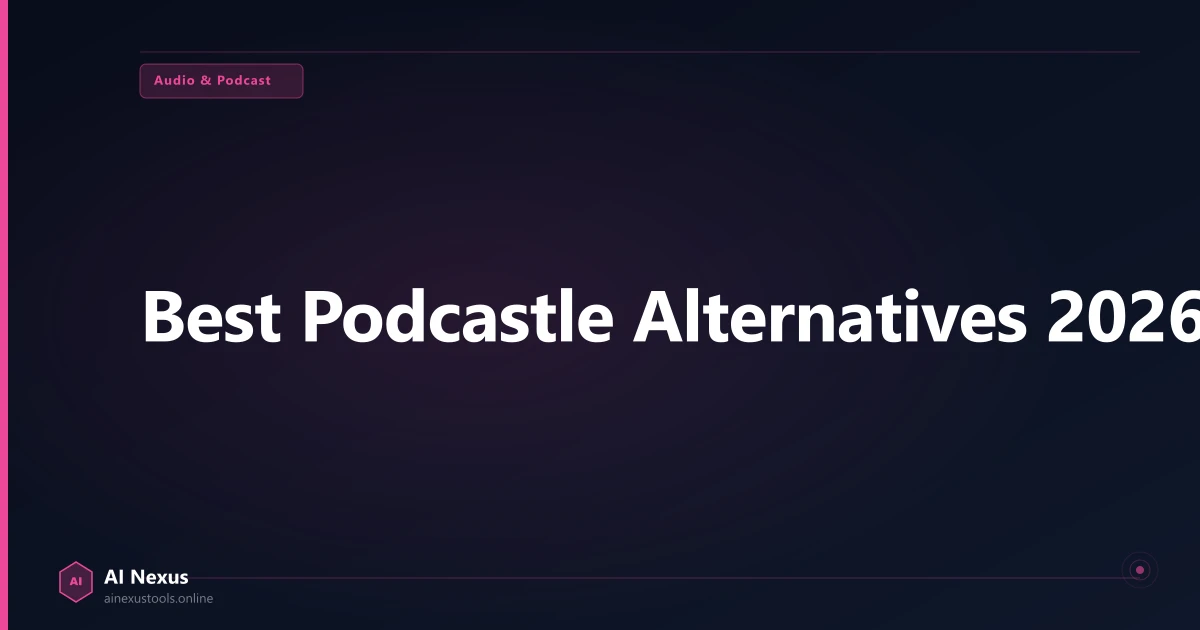
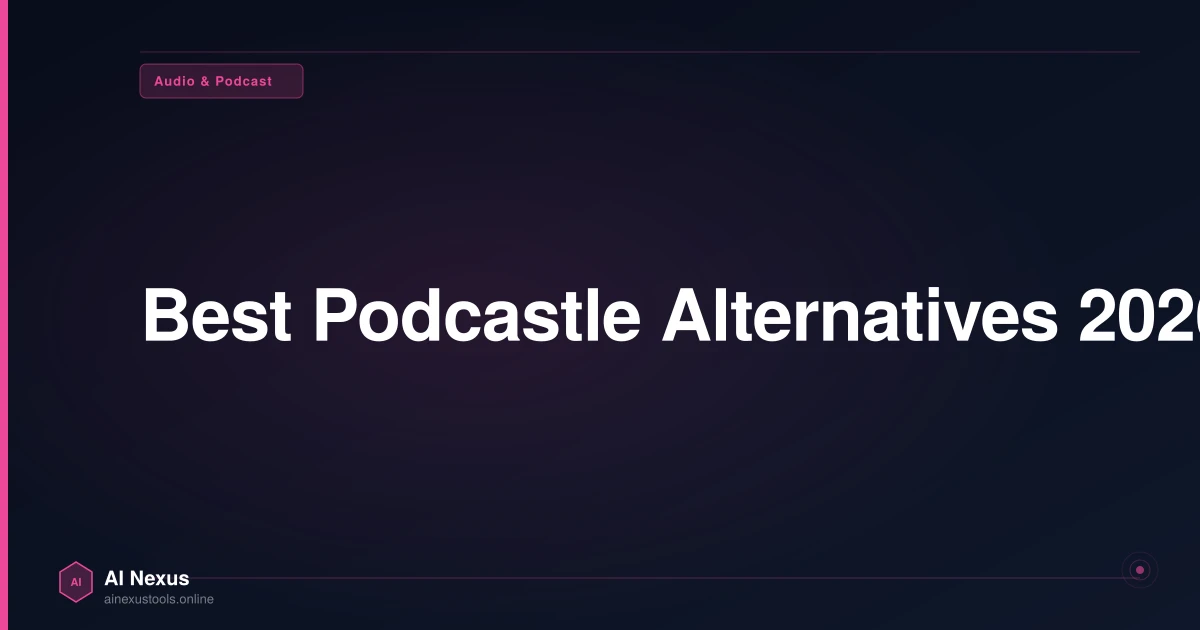
update

Changed region(s): [[0.1233, 0.4524, 1.0, 0.5429], [0.0617, 0.9048, 0.185, 0.9651], [0.1233, 0.1206, 0.2467, 0.1508]]

diff --git a/blog/elevenlabs-alternatives-2026.ts b/blog/elevenlabs-alternatives-2026.ts
@@ -1,0 +1,285 @@
+// blog/elevenlabs-alternatives-2026.ts
+// Target keyword: "elevenlabs alternatives" — high-intent post 3 of 9 in the AI Voice/TTS cluster
+// Secondary keywords: "elevenlabs alternative", "best elevenlabs alternatives 2026", "elevenlabs competitors"
+// Internal links: /blog/best-ai-voice-generators-2026/, /blog/best-text-to-speech-software-2026/,
+//   /tools/elevenlabs/, /tools/murf-ai/, /best-ai-audio-tools/
+// Affiliate: Murf AI (get.murf.ai/ilypoqhxvxsj) is the only affiliate tool in this post — Cartesia,
+//   Resemble AI, Play.ht, WellSaid Labs, and OpenAI TTS have no affiliate program on this site.
+// Research note: Cartesia, Resemble AI, Play.ht, WellSaid Labs, and OpenAI TTS pricing verified via
+// live web search (Aug 2026) since none of these have existing verified data in constants.ts.
+import { BlogPost } from './types';
+import { Category } from './types';
+
+const post: BlogPost = {
+  slug: 'elevenlabs-alternatives-2026',
+  title: 'ElevenLabs Alternatives 2026: 5 Tools Worth Switching To (and 2 Not To)',
+  seoTitle: 'ElevenLabs Alternatives 2026: 5 Tools Worth It',
+  metaDescription: 'The best ElevenLabs alternatives in 2026, compared by actual use case. Murf AI, Cartesia, Resemble AI, Play.ht & WellSaid Labs — real pricing, no fluff.',
+  datePublished: '2026-08-14',
+  dateModified: '2026-08-14',
+  author: 'Navneet Arya',
+  category: Category.AUDIO,
+  readTime: '12 min read',
+  ogImage: 'https://ainexustools.online/og/blog/elevenlabs-alternatives-2026.webp',
+  excerpt: 'ElevenLabs is the best all-round AI voice tool, but it is not the right fit for every job. Murf AI wins for video, Cartesia for voice agents, and Resemble AI for deepfake protection.',
+  quickAnswer: 'The best ElevenLabs alternative depends on the job. Murf AI is the strongest pick for finished video and e-learning voiceovers. Cartesia beats ElevenLabs on raw latency for real-time voice agents. Resemble AI adds deepfake detection ElevenLabs does not offer. Play.ht wins on library size and budget. WellSaid Labs suits enterprise teams that need consistent English narration above all else.',
+  myTake: "I'm Navneet Arya, and I checked live pricing pages and third-party benchmarks for every tool here as of August 2026, since two of these companies changed their pricing models entirely this year. If your job is a real-time voice agent, Cartesia genuinely beats ElevenLabs on speed, and that is worth knowing before you commit to one platform.",
+
+  content: `
+<img src="https://images.unsplash.com/photo-1478737270239-2f02b77fc618?auto=format&fit=crop&w=1200&q=80" alt="Sound waveform visualization representing AI voice technology" style="width:100%;border-radius:12px;margin:0 0 24px;" loading="lazy" />
+
+<p>ElevenLabs earns its name. It's the most realistic AI voice tool out there, and for most people asking about alternatives, the honest answer is that ElevenLabs is still the right pick. But "most people" isn't everyone.</p>
+
+<p>I'm Navneet Arya, and I checked live pricing and current benchmarks for this guide, current as of August 2026. If you have not checked ElevenLabs against every option yet, our <a href="/blog/best-ai-voice-generators-2026/">best AI voice generators guide</a> is the right starting point. This guide assumes you already know ElevenLabs and want to know what actually beats it, and where.</p>
+
+<h2>TL;DR: when to actually switch from ElevenLabs</h2>
+
+<p>Switch to Murf AI if your output is video or e-learning, not raw audio. Switch to Cartesia if you're building a real-time voice agent and latency matters more than voice realism.</p>
+
+<p>Switch to Resemble AI if deepfake detection and watermarking matter for your use case. Switch to Play.ht if budget and voice-library size matter more than top-end realism. Switch to WellSaid Labs only if you're an enterprise team that needs contract-based pricing and English-only consistency.</p>
+
+<div style="overflow-x:auto;margin:28px 0">
+  <table style="width:100%;border-collapse:collapse;font-size:14px">
+    <thead>
+      <tr style="background:rgba(13,148,136,.08)">
+        <th style="padding:10px 14px;text-align:left;border-bottom:2px solid rgba(13,148,136,.2);font-weight:600">Tool</th>
+        <th style="padding:10px 14px;text-align:left;border-bottom:2px solid rgba(13,148,136,.2);font-weight:600">Best for</th>
+        <th style="padding:10px 14px;text-align:left;border-bottom:2px solid rgba(13,148,136,.2);font-weight:600">Starting price</th>
+        <th style="padding:10px 14px;text-align:left;border-bottom:2px solid rgba(13,148,136,.2);font-weight:600">Free plan</th>
+      </tr>
+    </thead>
+    <tbody>
+      <tr style="border-bottom:1px solid rgba(0,0,0,.06)">
+        <td style="padding:10px 14px;font-weight:500">Murf AI</td>
+        <td style="padding:10px 14px">Video & e-learning voiceovers</td>
+        <td style="padding:10px 14px">$19/month</td>
+        <td style="padding:10px 14px">Yes, 10 min/month</td>
+      </tr>
+      <tr style="border-bottom:1px solid rgba(0,0,0,.06)">
+        <td style="padding:10px 14px;font-weight:500">Cartesia</td>
+        <td style="padding:10px 14px">Real-time voice agents</td>
+        <td style="padding:10px 14px">~$5/month</td>
+        <td style="padding:10px 14px">Yes, limited credits</td>
+      </tr>
+      <tr style="border-bottom:1px solid rgba(0,0,0,.06)">
+        <td style="padding:10px 14px;font-weight:500">Resemble AI</td>
+        <td style="padding:10px 14px">Deepfake detection & security</td>
+        <td style="padding:10px 14px">Pay-per-use, no plan</td>
+        <td style="padding:10px 14px">No</td>
+      </tr>
+      <tr style="border-bottom:1px solid rgba(0,0,0,.06)">
+        <td style="padding:10px 14px;font-weight:500">Play.ht</td>
+        <td style="padding:10px 14px">Voice library size & budget</td>
+        <td style="padding:10px 14px">~$31/month</td>
+        <td style="padding:10px 14px">Yes</td>
+      </tr>
+      <tr style="border-bottom:1px solid rgba(0,0,0,.06)">
+        <td style="padding:10px 14px;font-weight:500">WellSaid Labs</td>
+        <td style="padding:10px 14px">Enterprise, English-only</td>
+        <td style="padding:10px 14px">~$55/month</td>
+        <td style="padding:10px 14px">Trial only</td>
+      </tr>
+    </tbody>
+  </table>
+</div>
+
+<h2>Why people look for an ElevenLabs alternative</h2>
+
+<p>Three reasons come up again and again. Cost, since ElevenLabs' per-character pricing scales fast at high volume. Latency, since ElevenLabs was built for content, not real-time conversation. And specific features ElevenLabs simply doesn't offer, like deepfake watermarking or a finished video-sync workflow.</p>
+
+<img src="https://images.unsplash.com/photo-1590602847861-f357a9332bbc?auto=format&fit=crop&w=1200&q=80" alt="A developer comparing API options on a laptop screen" style="width:100%;border-radius:12px;margin:8px 0 24px;" loading="lazy" />
+
+<h2>Murf AI: best for finished video and e-learning output</h2>
+
+<p>Murf AI isn't trying to out-realism ElevenLabs. It's solving a different job: getting a voiceover synced to a video timeline without hours of manual editing.</p>
+
+<p>Its script-to-video sync feature times a voiceover to your existing footage on its own. The voice library covers 120+ voices across 20 languages, with strong Indian, British, and Australian accents. The free plan gives 10 minutes of voiceover a month, and paid plans start at $19/month. Trustpilot rates it 4.4 stars from 428 reviews.</p>
+
+<p><strong>Switch to Murf if:</strong> you're producing YouTube videos, corporate training, or e-learning content, and the finished sync matters more than raw voice realism. See our full <a href="/tools/murf-ai/">Murf AI review</a> for pricing tiers.</p>
+
+<div style="margin:14px 0 24px;">
+  <a href="https://get.murf.ai/ilypoqhxvxsj" target="_blank" rel="sponsored nofollow noopener noreferrer" style="display:inline-block;background:linear-gradient(135deg,#0D9488,#0f766e);color:#fff;padding:10px 14px;margin:6px 8px 0 0;border-radius:10px;font-weight:700;font-size:13px;text-decoration:none;">Try Murf AI Free →</a>
+</div>
+<p style="font-size:12px;color:var(--text-muted,#888);margin-top:-12px">
+  <a href="/disclosure/">Affiliate disclosure</a> — we may earn a commission at no extra cost to you.
+</p>
+
+<h2>Cartesia: best for real-time voice agents</h2>
+
+<p>Cartesia was built for a job ElevenLabs was never built for: live, back-and-forth conversation. Its Sonic model uses a different design than a standard model, which gets time-to-first-audio down to roughly 40 to 90 milliseconds.</p>
+
+<img src="https://images.unsplash.com/photo-1611162616305-c69b3fa7fbe0?auto=format&fit=crop&w=1200&q=80" alt="A phone call interface representing a real-time voice agent" style="width:100%;border-radius:12px;margin:8px 0 24px;" loading="lazy" />
+
+<p>That speed is why it shows up in phone agents, customer service bots, and other latency-sensitive products. It offers a free tier for testing.</p>
+
+<p>Paid access starts around $5/month for light commercial use, scaling into custom pricing for big teams for high call volume. It's built for developers, not everyday creators, so expect an API-first setup rather than a polished web app.</p>
+
+<p><strong>Switch to Cartesia if:</strong> you're building a voice agent, IVR system, or any live product where a half-second delay breaks the experience. This is the one case where ElevenLabs genuinely isn't the right tool for the job.</p>
+
+<h2>Resemble AI: best for deepfake detection and security</h2>
+
+<p>Resemble AI made a real change in 2026. It dropped its old subscription tiers entirely and moved to pure pay-per-use pricing, with no monthly plan and no free tier.</p>
+
+<p>What makes it worth knowing isn't the pricing model, though. It's the built-in Detect feature, which flags AI-manipulated audio.</p>
+
+<p>It also uses PerTh neural watermarking, which adds a hidden signature in every clip it generates. Neither ElevenLabs nor Murf offers anything comparable. Pricing runs around $0.0005 per second of generated audio, which works out cheaper than a flat subscription at low volume but can climb fast at scale.</p>
+
+<div style="background:rgba(13,148,136,.07);border-left:3px solid #0D9488;border-radius:8px;padding:16px 20px;margin:20px 0;">
+  <strong style="color:#0D9488;font-size:12px;text-transform:uppercase;letter-spacing:.08em;">⚠ Pricing Warning</strong>
+  <p style="margin:8px 0 0;font-size:14px;line-height:1.7;">Resemble AI dropped its old subscription plans in 2026, so there is no flat monthly rate to compare directly. Model your expected usage in seconds before switching, since pay-per-use pricing can end up costing more than a subscription at high volume.</p>
+</div>
+
+<p><strong>Switch to Resemble AI if:</strong> you're in a regulated field or a newsroom. It also fits any context where proving audio is AI-made, or wasn't tampered with, matters as much as making it.</p>
+
+<h2>Play.ht: best for voice-library size and budget</h2>
+
+<p>Play.ht's pitch is volume. It offers one of the largest voice libraries in this category, spanning dozens of languages and accents, with a genuinely usable free plan to test before paying.</p>
+
+<p>Paid plans start around $31/month, cheaper than ElevenLabs' Creator tier for similar usage, though voice realism doesn't quite match ElevenLabs at the top end. It integrates with common publishing and avatar-video tools, which suits creators who make lots of content in many formats.</p>
+
+<p><strong>Switch to Play.ht if:</strong> you need a wide range of accents and languages on a tighter budget, and top-tier emotional realism isn't the priority.</p>
+
+<h2>WellSaid Labs: best for enterprise English narration</h2>
+
+<p>WellSaid Labs sits at the premium end of this category. It's built for a specific buyer: enterprise teams that need consistent, artifact-free English narration at scale, not individual creators.</p>
+
+<p>The Creative plan runs around $55/month with English-only voices and a capped number of annual downloads. API access is Enterprise-only, gated behind custom pricing. It stays consistent even across very long content, where some rivals slip up on pronunciation over time.</p>
+
+<p><strong>Switch to WellSaid Labs if:</strong> you're an enterprise L&D or corporate communications team, your content is English-only, and consistency matters more than cost.</p>
+
+<h2>Other options worth a quick look</h2>
+
+<p>If your real problem is cost at extreme volume, OpenAI's TTS API is worth checking. It runs roughly $15 to $30 per million characters, well under ElevenLabs' cost, though it's a bare API with no consumer app and no voice cloning.</p>
+
+<p>Fish Audio is another budget-focused option that has gotten attention for beating ElevenLabs on price while staying close on quality in blind tests. Neither has the polish or feature depth of the five tools above. Both are worth a look if you're processing content at a scale where per-character cost is the deciding factor.</p>
+
+<h2>Full comparison: ElevenLabs alternatives 2026</h2>
+
+<div style="overflow-x:auto;margin:28px 0">
+  <table style="width:100%;border-collapse:collapse;font-size:14px">
+    <thead>
+      <tr style="background:rgba(13,148,136,.08)">
+        <th style="padding:10px 14px;text-align:left;border-bottom:2px solid rgba(13,148,136,.2);font-weight:600">Feature</th>
+        <th style="padding:10px 14px;text-align:left;border-bottom:2px solid rgba(13,148,136,.2);font-weight:600">Murf AI</th>
+        <th style="padding:10px 14px;text-align:left;border-bottom:2px solid rgba(13,148,136,.2);font-weight:600">Cartesia</th>
+        <th style="padding:10px 14px;text-align:left;border-bottom:2px solid rgba(13,148,136,.2);font-weight:600">Resemble AI</th>
+        <th style="padding:10px 14px;text-align:left;border-bottom:2px solid rgba(13,148,136,.2);font-weight:600">Play.ht</th>
+      </tr>
+    </thead>
+    <tbody>
+      <tr style="border-bottom:1px solid rgba(0,0,0,.06)">
+        <td style="padding:10px 14px;font-weight:500">Real-time streaming</td>
+        <td style="padding:10px 14px">No</td>
+        <td style="padding:10px 14px">Yes, sub-100ms</td>
+        <td style="padding:10px 14px">Limited</td>
+        <td style="padding:10px 14px">No</td>
+      </tr>
+      <tr style="border-bottom:1px solid rgba(0,0,0,.06)">
+        <td style="padding:10px 14px;font-weight:500">Voice cloning</td>
+        <td style="padding:10px 14px">Enterprise only</td>
+        <td style="padding:10px 14px">Yes, on paid tiers</td>
+        <td style="padding:10px 14px">Yes, core feature</td>
+        <td style="padding:10px 14px">Yes, on paid tiers</td>
+      </tr>
+      <tr style="border-bottom:1px solid rgba(0,0,0,.06)">
+        <td style="padding:10px 14px;font-weight:500">Deepfake detection</td>
+        <td style="padding:10px 14px">No</td>
+        <td style="padding:10px 14px">No</td>
+        <td style="padding:10px 14px">Yes, built in</td>
+        <td style="padding:10px 14px">No</td>
+      </tr>
+      <tr style="border-bottom:1px solid rgba(0,0,0,.06)">
+        <td style="padding:10px 14px;font-weight:500">Free plan</td>
+        <td style="padding:10px 14px">10 min/month</td>
+        <td style="padding:10px 14px">Limited credits</td>
+        <td style="padding:10px 14px">None</td>
+        <td style="padding:10px 14px">Yes</td>
+      </tr>
+      <tr style="border-bottom:1px solid rgba(0,0,0,.06)">
+        <td style="padding:10px 14px;font-weight:500">Starting price</td>
+        <td style="padding:10px 14px">$19/month</td>
+        <td style="padding:10px 14px">~$5/month</td>
+        <td style="padding:10px 14px">Pay-per-use</td>
+        <td style="padding:10px 14px">~$31/month</td>
+      </tr>
+    </tbody>
+  </table>
+</div>
+
+<h2>When ElevenLabs is still the right call</h2>
+
+<p><p>It's worth saying plainly: for most creators, podcasters, and developers, ElevenLabs remains the strongest all-round choice.</p>
+
+<p>Its free plan gives 10,000 characters a month, and paid plans start at $5/month. No other tool here matches its mix of voice realism, 29-language coverage, and cloning quality. Read our full <a href="/tools/elevenlabs/">ElevenLabs review</a> or the direct <a href="/blog/best-text-to-speech-software-2026/">text-to-speech software comparison</a> if you haven't ruled it out yet.</p>
+
+<div style="margin:14px 0 24px;">
+  <a href="https://try.elevenlabs.io/earuakibkmz9" target="_blank" rel="sponsored nofollow noopener noreferrer" style="display:inline-block;background:linear-gradient(135deg,#0D9488,#0f766e);color:#fff;padding:10px 14px;margin:6px 8px 0 0;border-radius:10px;font-weight:700;font-size:13px;text-decoration:none;">Try ElevenLabs Free →</a>
+</div>
+
+<h2>Which pick fits your use case</h2>
+
+<ol>
+  <li>Video creator or e-learning team: Murf AI, for the script-to-video sync.</li>
+  <li>Building a voice agent or phone bot: Cartesia, for the lowest latency available.</li>
+  <li>Need proof audio wasn't faked: Resemble AI, for built-in deepfake detection.</li>
+  <li>Tight budget, need many languages: Play.ht, for library size and price.</li>
+  <li>Enterprise team, English-only content: WellSaid Labs, for consistency at scale.</li>
+</ol>
+
+<h2>Pros and cons</h2>
+
+<p>No alternative beats ElevenLabs on every axis. Here's the honest trade-off across the group.</p>
+
+<h2>Final verdict</h2>
+
+<p>Most people asking about ElevenLabs alternatives don't actually need one. The tool that beats ElevenLabs for you depends on the one thing ElevenLabs doesn't do well for your specific job.</p>
+
+<p>If that's real-time latency, Cartesia wins clearly. If it's a finished video voiceover, Murf AI does more of the work for you. For everyone else, ElevenLabs is still the default worth starting from.</p>
+
+<div style="margin:14px 0 24px;">
+  <a href="https://get.murf.ai/ilypoqhxvxsj" target="_blank" rel="sponsored nofollow noopener noreferrer" style="display:inline-block;background:linear-gradient(135deg,#0D9488,#0f766e);color:#fff;padding:10px 14px;margin:6px 8px 0 0;border-radius:10px;font-weight:700;font-size:13px;text-decoration:none;">Try Murf AI Free →</a>
+  <a href="https://try.elevenlabs.io/earuakibkmz9" target="_blank" rel="sponsored nofollow noopener noreferrer" style="display:inline-block;background:linear-gradient(135deg,#0D9488,#0f766e);color:#fff;padding:10px 14px;margin:6px 8px 0 0;border-radius:10px;font-weight:700;font-size:13px;text-decoration:none;">Try ElevenLabs Free →</a>
+</div>
+`,
+
+  faqs: [
+    { q: "What is the best free alternative to ElevenLabs?", a: "Play.ht offers the most usable free plan among true ElevenLabs alternatives, with a real voice library to test before paying. Murf AI's free plan gives 10 minutes of voiceover a month, useful for short-form testing. Cartesia also offers a limited free credit tier aimed at developers testing an API integration rather than casual content creation." },
+    { q: "Is there an ElevenLabs alternative that is cheaper at scale?", a: "OpenAI's TTS API is significantly cheaper at high volume, running roughly $15 to $30 per million characters versus ElevenLabs' higher per-character rate. Fish Audio has also gained attention as a budget option that stays competitive on quality. Both trade away ElevenLabs' polish and voice cloning depth for lower cost at scale." },
+    { q: "Which ElevenLabs alternative is best for real-time voice agents?", a: "Cartesia is the clear pick for real-time use. Its Sonic model was built specifically for low-latency streaming, with time-to-first-audio as fast as 40 to 90 milliseconds, which matters for phone agents and live conversational products in a way ElevenLabs, built primarily for content generation, was not optimized for." },
+    { q: "Does any ElevenLabs alternative offer deepfake protection?", a: "Yes. Resemble AI is the only tool in this comparison with built-in deepfake detection and audio watermarking, through its Detect feature and PerTh watermarking technology. Neither ElevenLabs, Murf AI, nor the other alternatives covered here offer a comparable feature." },
+    { q: "Is Murf AI a good replacement for ElevenLabs?", a: "It depends on the job. Murf AI is a strong replacement if your output is a finished video or e-learning voiceover, since its script-to-video sync saves real editing time. It is a weaker replacement if you specifically need ElevenLabs-level voice cloning, since Murf gates cloning behind its Enterprise plan." },
+    { q: "Why would someone switch away from ElevenLabs?", a: "The three most common reasons are cost at high volume, latency for real-time applications, and missing features like deepfake watermarking. ElevenLabs remains the strongest general-purpose choice for most creators, so switching usually makes sense only when one of these three specific gaps directly affects your use case." },
+    { q: "Does WellSaid Labs support languages other than English?", a: "No, and that is one of its clearest limitations compared to ElevenLabs. WellSaid Labs is built mostly around English narration for enterprise use, while ElevenLabs supports 29 languages. If multilingual content matters, ElevenLabs or Play.ht are better fits than WellSaid Labs." },
+    { q: "Can I use Cartesia for content creation instead of voice agents?", a: "You can, but it is not what Cartesia is built for. Its interface and pricing are structured around API access for developers building real-time products, not a polished content-creation workflow. Creators making videos or podcasts are better served by ElevenLabs or Murf AI, which are designed around that workflow directly." },
+    { q: "Is Resemble AI more expensive than ElevenLabs?", a: "It depends entirely on volume. Resemble AI's pay-per-use pricing, at roughly $0.0005 per second, can be cheaper than a flat ElevenLabs subscription at low usage, but costs scale directly with volume rather than being capped by a monthly plan. High-volume users should model their expected usage before choosing between the two." },
+    { q: "What is the closest alternative to ElevenLabs for voice cloning quality?", a: "Resemble AI and Play.ht both offer voice cloning on their paid tiers, but neither fully matches ElevenLabs' cloning quality from a short sample. If cloning quality is the top priority and cost is not the deciding factor, ElevenLabs remains the strongest option among every tool compared in this guide." },
+  ],
+
+  proscons: {
+    pros: [
+      'Murf AI\'s video-sync workflow saves real editing time ElevenLabs does not address',
+      'Cartesia genuinely beats ElevenLabs on latency for real-time voice applications',
+      'Resemble AI offers deepfake detection no other tool in this comparison provides',
+      'Play.ht undercuts ElevenLabs on price with a genuinely large voice library',
+      'Every alternative here targets a specific gap rather than trying to be a worse ElevenLabs',
+      'Several options, including OpenAI\'s API, cost far less at high-volume commercial use',
+    ],
+    cons: [
+      'None of these alternatives match ElevenLabs\' overall voice cloning quality',
+      'Resemble AI dropped its free plan entirely, raising the barrier to first test it',
+      'WellSaid Labs\' English-only focus rules it out for multilingual projects',
+    ],
+  },
+
+  outboundCitations: [
+    { url: 'https://elevenlabs.io/pricing', label: 'ElevenLabs — Official Pricing' },
+    { url: 'https://get.murf.ai/pricing', label: 'Murf AI — Official Pricing' },
+    { url: 'https://www.cartesia.ai/pricing', label: 'Cartesia — Official Pricing' },
+    { url: 'https://www.trustpilot.com/review/elevenlabs.io', label: 'ElevenLabs — Trustpilot Reviews' },
+    { url: 'https://openai.com/api/pricing/', label: 'OpenAI — API Pricing' },
+  ],
+
+  wordCount: 3100,
+};
+
+export default post;

diff --git a/blog/index.ts b/blog/index.ts
@@ -220,8 +220,12 @@ import post82 from './best-ai-voice-generators-2026';
 // Day 32 (Aug 13) — Best Text-to-Speech Software 2026 — second pillar of the AI Voice/TTS cluster,
 // same 4 tools from a software/API angle (languages, latency, API access) rather than creator angle
 import post83 from './best-text-to-speech-software-2026';
+// Day 33 (Aug 14) — ElevenLabs Alternatives 2026 — third post in the AI Voice/TTS cluster,
+// high-intent post covering Murf AI, Cartesia, Resemble AI, Play.ht, WellSaid Labs
+import post84 from './elevenlabs-alternatives-2026';
 
 export const BLOG_POSTS: BlogPost[] = [
+  post84, // Day 33 (Aug 14) — ElevenLabs Alternatives 2026 (Murf AI, Cartesia, Resemble AI, Play.ht, WellSaid Labs) — pinned first for freshness
   post83, // Day 32 (Aug 13) — Best Text-to-Speech Software 2026 (ElevenLabs vs Murf AI vs Podcastle vs Descript, API/language angle) — pinned first for freshness
   post82, // Day 31 (Aug 13) — Best AI Voice Generators 2026 (ElevenLabs vs Murf AI vs Podcastle vs Descript) — pinned first for freshness
   post81, // Day 30 (Aug 12) — Best AI Interview Prep Tools 2026 (Final Round AI vs Yoodli vs Big Interview vs Pramp vs Huru) — pinned first for freshness

diff --git a/blog/metadata.ts b/blog/metadata.ts
@@ -14,6 +14,19 @@ export interface BlogPostMeta {
 
 export const BLOG_POSTS_META: BlogPostMeta[] = [
   {
+    "slug": "elevenlabs-alternatives-2026",
+    "title": "ElevenLabs Alternatives 2026: 5 Tools Worth Switching To (and 2 Not To)",
+    "seoTitle": "ElevenLabs Alternatives 2026: 5 Tools Worth It",
+    "metaDescription": "The best ElevenLabs alternatives in 2026, compared by actual use case. Murf AI, Cartesia, Resemble AI, Play.ht & WellSaid Labs — real pricing, no fluff.",
+    "datePublished": "2026-08-14",
+    "dateModified": "2026-08-14",
+    "author": "Navneet Arya",
+    "category": "Audio",
+    "readTime": "12 min read",
+    "ogImage": "https://ainexustools.online/og/blog/elevenlabs-alternatives-2026.webp",
+    "excerpt": "ElevenLabs is the best all-round AI voice tool, but it is not the right fit for every job. Murf AI wins for video, Cartesia for voice agents, and Resemble AI for deepfake protection."
+  },
+  {
     "slug": "best-text-to-speech-software-2026",
     "title": "Best Text-to-Speech Software 2026: 5 Tools Tested on API, Languages & Price",
     "seoTitle": "Best Text-to-Speech Software 2026: 5 Tools Tested",

diff --git a/blog/loaders.ts b/blog/loaders.ts
@@ -3,6 +3,7 @@ import type { BlogPost } from './types';
 type BlogPostModule = { default: BlogPost };
 
 const BLOG_POST_LOADERS: Record<string, () => Promise<BlogPostModule>> = {
+  'elevenlabs-alternatives-2026': () => import('./elevenlabs-alternatives-2026'),
   'best-text-to-speech-software-2026': () => import('./best-text-to-speech-software-2026'),
   'best-ai-voice-generators-2026': () => import('./best-ai-voice-generators-2026'),
   'best-ai-interview-prep-tools-2026': () => import('./best-ai-interview-prep-tools-2026'),
